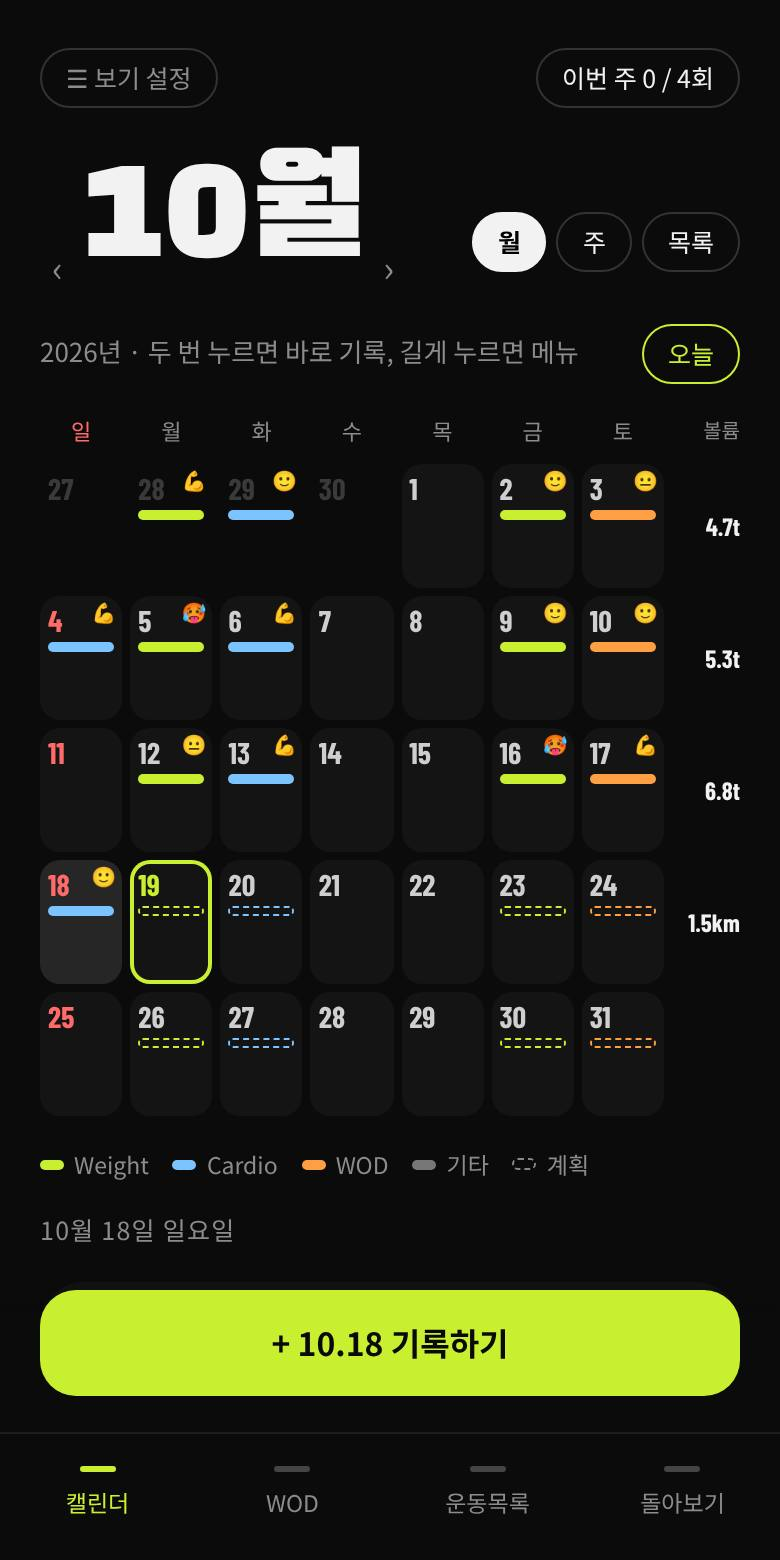
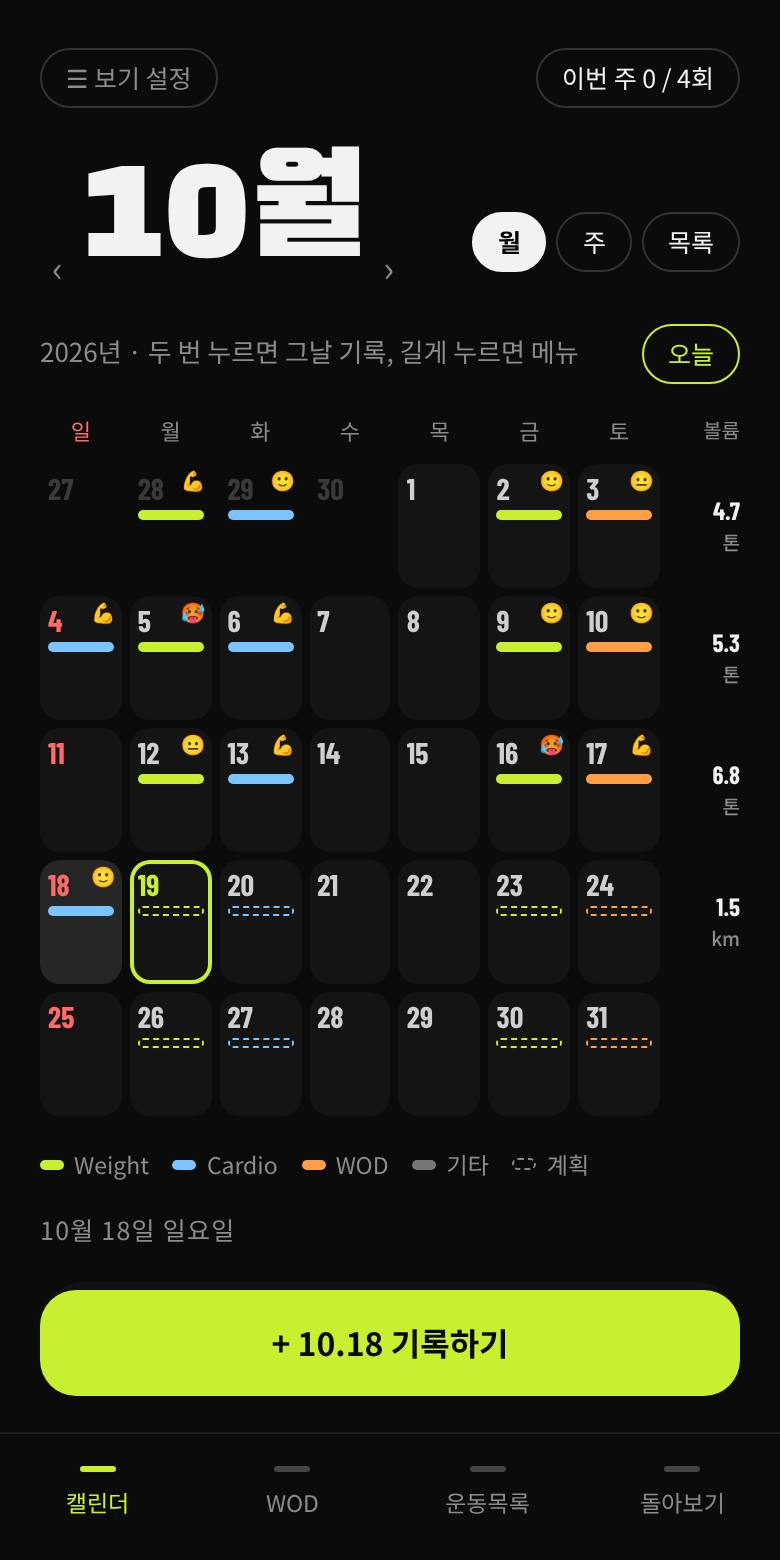
Double tap a date opens that day's page; volume on day records, calendar list and week column units
Claude-Session: https://claude.ai/code/session_019eoxjeUYsC1xCLQy9vy9QX

diff --git a/index.html b/index.html
@@ -80,8 +80,10 @@ button{cursor:pointer;-webkit-tap-highlight-color:transparent}
 .dow span{text-align:center;font-size:11px;color:var(--mut);padding-bottom:4px}
 .dow span:first-child{color:var(--red)}
 .wk{margin-top:4px}
-.cal.wvol .dow,.cal.wvol .wk{grid-template-columns:repeat(7,minmax(0,1fr)) 34px}
+.cal.wvol .dow,.cal.wvol .wk{grid-template-columns:repeat(7,minmax(0,1fr)) 36px}
 .wk .wv{align-self:center;text-align:right;font-family:var(--num);font-weight:700;font-size:12.5px;color:var(--ink);white-space:nowrap}
+.wk .wv small{display:block;font-family:var(--body);font-weight:500;font-size:9.5px;color:var(--mut);margin-top:1px}
+.evol{display:flex;align-items:baseline;flex-shrink:0}.evol .n{font-size:22px}
 .dow .wv{text-align:right;font-size:10px}
 .dc{height:62px;min-width:0;border-radius:10px;background:#141414;border:0;padding:5px 4px;display:flex;flex-direction:column;gap:3px;position:relative;text-align:left;-webkit-touch-callout:none}
 .dc .d{font-family:var(--num);font-weight:700;font-size:15px;color:#cfcfcf;line-height:1}
@@ -590,7 +592,7 @@ const plansOn = ds => ds < TODAY() ? [] : state.plans.filter(p => planOn(p, ds) 
 const repeatText = p => p.repeat === 'none' ? '한 번' : p.repeat === 'daily' ? '매일' : p.repeat === 'monthly' ? `매월 ${parseYmd(p.start).getDate()}일` : `매주 ${(p.days || []).slice().sort().map(d => WD[d]).join('·')}`;
 const planContents = p => p.wodId ? (wodById(p.wodId)?.name || '') : (p.exIds || []).map(id => exById(id)?.name).filter(Boolean).join(', ');
 function entriesOn(ds) {
-  const s = sessionsOn(ds).map(x => ({kind:'s', id:x.id, title:x.title || '운동', cat:sessionCat(x), meta:summary(x)}));
+  const s = sessionsOn(ds).map(x => ({kind:'s', id:x.id, title:x.title || '운동', cat:sessionCat(x), meta:summary(x), vol:volOfSession(x).kg}));
   const p = plansOn(ds).map(x => ({kind:'p', id:x.id, title:x.title, cat:x.cat, meta:[repeatText(x), planContents(x)].filter(Boolean).join(' · ')}));
   return [...s, ...p].filter(e => !ui.hidden.includes(e.cat));
 }
@@ -670,6 +672,8 @@ const volOfSession = s => volSum(s.items.map(volOfItem));
 const volBetween = (from, to) => volSum(state.sessions.filter(s => s.date >= from && s.date <= to).map(volOfSession));
 const kgTxt = v => Math.round(v).toLocaleString('en-US');
 const kgShort = v => v >= 1000 ? `${Math.round(v / 100) / 10}${U() === 'kg' ? 't' : 'k'}` : `${Math.round(v)}`;
+/* calendar week column: number on top, unit under it */
+const volUnitTxt = v => v >= 1000 ? `${Math.round(v / 100) / 10}<small>${U() === 'kg' ? '톤' : 'k lb'}</small>` : `${Math.round(v)}<small>${U()}</small>`;
 const kmTxt = v => `${Math.round(v * 10) / 10}km`;
 function weekStats() {
   const days = new Set(state.sessions.map(s => s.date)), mon = mondayOf(new Date());
@@ -738,7 +742,7 @@ function viewCal() {
         h += `<button class="dc ${d.getMonth() !== vm - 1 ? 'out' : ''} ${c === 0 ? 'sun' : ''} ${ds === t ? 'today' : ''} ${ds === ui.sel ? 'sel' : ''}" data-date="${ds}" aria-label="${dayLabel(ds)} ${ev.length ? ev.map(e => e.title).join(', ') : '기록 없음'}">
           <span class="d">${d.getDate()}</span>${mood ? `<span class="s">${mood}</span>` : ''}
           ${ev.length ? `<span class="bs">${ev.slice(0, ev.length > 4 ? 3 : 4).map(e => `<span class="b ${e.kind === 'p' ? 'plan' : ''}" style="${e.kind === 'p' ? 'border-color' : 'background'}:${catOf(e.cat).color}"></span>`).join('')}${ev.length > 4 ? `<span class="more">+${ev.length - 3}</span>` : ''}</span>` : ''}</button>`; }
-      if (wv) { const v = volBetween(ymd(addDays(start, r*7)), ymd(addDays(start, r*7 + 6))); h += `<span class="wv">${v.kg ? kgShort(v.kg) : v.km ? kmTxt(v.km) : ''}</span>`; }
+      if (wv) { const v = volBetween(ymd(addDays(start, r*7)), ymd(addDays(start, r*7 + 6))); h += `<span class="wv">${v.kg ? volUnitTxt(v.kg) : v.km ? `${Math.round(v.km * 10) / 10}<small>km</small>` : ''}</span>`; }
       h += '</div>'; }
     body = `<div class="cal ${wv ? 'wvol' : ''}" id="cal"><div class="dow">${WD.map(w => `<span>${w}</span>`).join('')}${wv ? '<span class="wv">볼륨</span>' : ''}</div>${h}</div>`;
   } else if (ui.view === 'week') {
@@ -757,7 +761,7 @@ function viewCal() {
     ${ui.view === 'list' ? '<h1 class="disp" style="font-size:64px">목록</h1>' : `<div class="row" style="align-items:flex-end;gap:2px"><button class="icon" data-action="month" data-v="-1" aria-label="이전">‹</button><h1 class="disp" style="font-size:${ui.view === 'week' ? 40 : 72}px;white-space:nowrap">${ui.view === 'week' ? `${sel.getMonth()+1}월 ${Math.ceil((sel.getDate() + new Date(sel.getFullYear(), sel.getMonth(), 1).getDay()) / 7)}주` : `${vm}월`}</h1><button class="icon" data-action="month" data-v="1" aria-label="다음">›</button></div>`}
     <div class="row" style="gap:5px;padding-bottom:10px">${[['month','월'],['week','주'],['list','목록']].map(([k, l]) => `<button class="pill" aria-pressed="${ui.view === k}" data-action="view" data-v="${k}">${l}</button>`).join('')}</div>
   </div>
-  <div class="row between"><span class="sub">${vy}년 · 두 번 누르면 바로 기록, 길게 누르면 메뉴</span><button class="pill lime" data-action="go-today">오늘</button></div>
+  <div class="row between"><span class="sub">${vy}년 · 두 번 누르면 그날 기록, 길게 누르면 메뉴</span><button class="pill lime" data-action="go-today">오늘</button></div>
   ${body}
   ${ui.view !== 'list' ? `<div class="legend">${cats().filter(c => !ui.hidden.includes(c.k)).map(c => `<span><i style="background:${c.color}"></i>${c.label}</span>`).join('')}<span><i style="border:1.5px dashed #888;height:6px"></i>계획</span></div>
   <div class="eb" style="${ui.sel === TODAY() ? 'color:var(--lime)' : ''}">${dayLabel(ui.sel)}${ui.sel === TODAY() ? ' · 오늘' : ''}</div>
@@ -770,10 +774,13 @@ function entryRow(e, ds) {
     <span class="disp" style="font-size:22px;width:24px;text-align:center;color:${e.kind === 'p' ? 'var(--mut)' : 'var(--ink)'}">${WD[d.getDay()]}</span>
     <span class="bar ${e.kind === 'p' ? 'plan' : ''}" style="${e.kind === 'p' ? 'border-color' : 'background'}:${catOf(e.cat).color}"></span>
     <span class="grow"><span class="t" style="display:block">${esc(e.title)}</span><span class="meta" style="display:block">${esc(e.meta)}</span></span>
-    <span class="pill ${e.kind === 'p' ? 'lime' : ''}">${e.kind === 'p' ? (ds === TODAY() ? '오늘 계획' : '계획') : '완료'}</span></button>`;
+    ${e.kind === 's' && e.vol ? `<span class="evol"><span class="n">${kgTxt(e.vol)}</span><span class="unit">${U().toUpperCase()}</span></span>` : `<span class="pill ${e.kind === 'p' ? 'lime' : ''}">${e.kind === 'p' ? (ds === TODAY() ? '오늘 계획' : '계획') : '완료'}</span>`}</button>`;
 }
 
 /* day view */
+/* one record's volume as pills under its title */
+function sessVolPills(s) { const v = volOfSession(s), p = [v.kg ? `<span class="pill lime">볼륨 ${kgTxt(v.kg)}${U()}</span>` : '', v.reps ? `<span class="pill">맨몸 ${v.reps}회</span>` : '', v.km ? `<span class="pill">${kmTxt(v.km)}</span>` : ''].filter(Boolean);
+  return p.length ? `<div class="row wrap" style="gap:6px;margin-top:10px">${p.join('')}</div>` : ''; }
 /* the whole day's volume, split by record */
 /* 돌아보기: volume by week (last 8, Monday start) or by month (last 6); a bar can be picked to see its split */
 function volPeriods(mode) { const now = new Date(), out = [];
@@ -808,7 +815,7 @@ function pageDay() {
   const ds = ui.dayDate, list = sessionsOn(ds);
   const dates = [...new Set(sorted().map(s => s.date))], i = dates.indexOf(ds);
   const prev = dates[i - 1], next = dates[i + 1];
-  if (!list.length) return `<div class="row between"><button class="pill" data-action="close-page">‹ 캘린더</button></div><div class="empty">이날은 기록이 없어요.</div>`;
+  if (!list.length) return `<div class="row between"><button class="pill" data-action="close-page">‹ 캘린더</button><span class="eb">${md(ds)} ${WD[parseYmd(ds).getDay()]}</span></div><div class="empty">이날은 기록이 없어요.</div>${ds <= TODAY() ? `<button class="btn lime" data-action="day-record" data-date="${ds}">+ ${md(ds)} 기록하기</button>` : ''}`;
   return `<div class="row between"><button class="pill" data-action="close-page">‹ 캘린더</button><div class="row" style="gap:4px"><button class="icon" data-action="day-nav" data-v="${prev || ''}" ${prev ? '' : 'disabled style="opacity:.25"'} aria-label="이전 기록">‹</button><span class="eb">${md(ds)} ${WD[parseYmd(ds).getDay()]}</span><button class="icon" data-action="day-nav" data-v="${next || ''}" ${next ? '' : 'disabled style="opacity:.25"'} aria-label="다음 기록">›</button></div><span style="width:70px"></span></div>
   <div id="daySwipe" style="touch-action:pan-y;display:flex;flex-direction:column;gap:16px">${dayVolHtml(ds, list)}${list.map(s => {
     const plan = state.plans.find(p => p.id === s.planId);
@@ -824,7 +831,7 @@ function pageDay() {
       <div class="n" style="font-size:100px;margin-top:2px">${esc(wodResult(it) || '-')}</div><div class="sub">${it.wodId ? b ? `이전 최고 ${esc(b.txt)}` : '첫 기록' : ''}${it.partner ? ` · 파트너 ${esc(it.partner)}` : ''}</div>
       <div style="margin-top:10px;padding-top:10px;border-top:1px solid rgba(0,0,0,.15);font-weight:500;line-height:1.6">${it.parts.map((p, pi) => `${multi ? `<div style="font-weight:800;margin-top:${pi ? 8 : 0}px">${esc([String.fromCharCode(65 + pi), partResult(p)].filter(Boolean).join(' · '))}</div>` : ''}${partFlow(p, t => `<div style="font-weight:800">${esc(t)}</div>`, (m, j) => `<div>${esc(m.sets?.length ? `${m.n} ${setsText(m, mvEx(m) || {unit:'km'})}${m.fields?.includes('w') ? ' ' + (m.u || 'kg') : ''}` : [m.q ? qTxt(m.q) : schemeAt(p, j), m.n, m.w].filter(Boolean).join(' '))}</div>`)}`).join('')}</div></div>`; }).join('');
     return `<div><div class="eb">${s.mood ? `${s.mood} ${MOODS.find(m => m[0] === s.mood)?.[1] || ''}` : ''}</div><h1 class="disp" style="font-size:52px;margin-top:4px">${esc(s.title || '운동')}</h1>
-      <div class="sub" style="margin-top:6px">${[s.duration ? `${s.duration}분` : '', s.place, plan ? `${repeatText(plan)} 계획` : ''].filter(Boolean).map(esc).join(' · ')}</div></div>
+      <div class="sub" style="margin-top:6px">${[s.duration ? `${s.duration}분` : '', s.place, plan ? `${repeatText(plan)} 계획` : ''].filter(Boolean).map(esc).join(' · ')}</div>${sessVolPills(s)}</div>
       ${heroHtml}${wodHero}
       ${s.items.some(i => i.type === 'ex') ? `<div class="card list">${s.items.filter(i => i.type === 'ex').map((it, n) => { const ex = exById(it.exId) || {name:'삭제된 운동', unit:'km'};
         return `<div class="it"><span class="n" style="font-size:26px;width:16px;color:var(--mut)">${n+1}</span><span class="grow"><span class="t" style="display:block">${esc(ex.name)}</span><span class="sub">${esc(setsText(it, ex))}${it.fields.includes('w') ? ' ' + wuOf(it) : ''}</span></span></div>`; }).join('')}</div>` : ''}
@@ -1360,6 +1367,7 @@ const A = {
   record: () => ui.tab === 'cal' && ui.sel > TODAY() ? openPlan(newPlanDraft(ui.sel)) : openEditor(newDraft(ui.tab === 'cal' ? ui.sel : TODAY())),
   'record-on': el => openEditor(newDraft(el.dataset.date)),
   'open-day': el => openDay(el.dataset.date),
+  'day-record': el => openEditor(newDraft(el.dataset.date)),
   'plan-detail': el => sheetPlanDetail(el.dataset.id, el.dataset.date),
   'record-plan': el => openEditor(newDraft(el.dataset.date, state.plans.find(p => p.id === el.dataset.id))),
   'skip-plan': el => { const p = state.plans.find(x => x.id === el.dataset.id); (p.skip ||= []).push(el.dataset.date); save(); closeSheet(); render(true); toast('이번 계획을 건너뛰었어요'); },
@@ -1633,7 +1641,7 @@ document.addEventListener('click', e => {
   const tab = e.target.closest('.tab'); if (tab) { ui.tab = tab.dataset.tab; ui.page = null; ui.confirm = null; closeSheet(); return render(); }
   const dc = e.target.closest('[data-date]:not([data-action])');
   if (dc) { const ds = dc.dataset.date, now = Date.now();
-    if (lastTap.ds === ds && now - lastTap.t < 350) { lastTap = {ds:null, t:0}; if (ds > TODAY()) openPlan(newPlanDraft(ds)); else openEditor(newDraft(ds)); return; }
+    if (lastTap.ds === ds && now - lastTap.t < 350) { lastTap = {ds:null, t:0}; if (ds > TODAY() && !sessionsOn(ds).length) openPlan(newPlanDraft(ds)); else openDay(ds); return; }
     lastTap = {ds, t:now}; ui.sel = ds; if (!ds.startsWith(ui.month)) ui.month = ds.slice(0, 7); render(true); return; }
   const el = e.target.closest('[data-action]'); if (!el) return;
   const a = el.dataset.action;

diff --git a/sw.js b/sw.js
@@ -1,4 +1,4 @@
-const C = 'setlog-1792368142463';
+const C = 'setlog-1792369574071';
 const CORE = ['./', 'index.html', 'manifest.webmanifest', 'icon-192.png', 'icon-512.png', 'apple-touch-icon.png', 'guide/1.jpg', 'guide/2.jpg', 'guide/3.jpg', 'guide/4.jpg', 'guide/5.jpg'];
 self.addEventListener('install', e => { e.waitUntil(caches.open(C).then(c => c.addAll(CORE)).then(() => self.skipWaiting())); });
 self.addEventListener('activate', e => { e.waitUntil(caches.keys().then(ks => Promise.all(ks.filter(k => k !== C).map(k => caches.delete(k)))).then(() => self.clients.claim())); });
